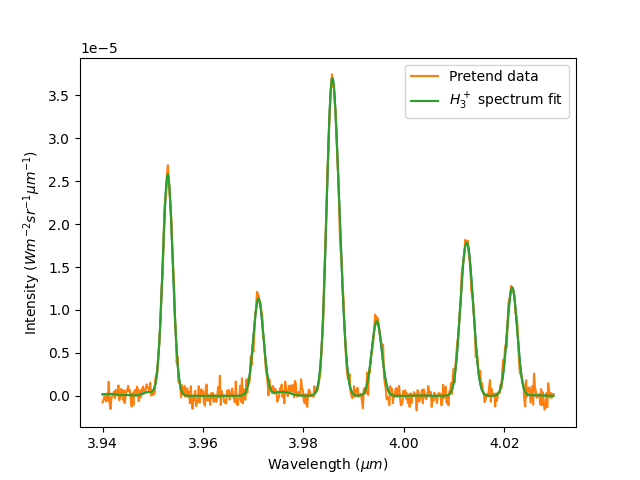
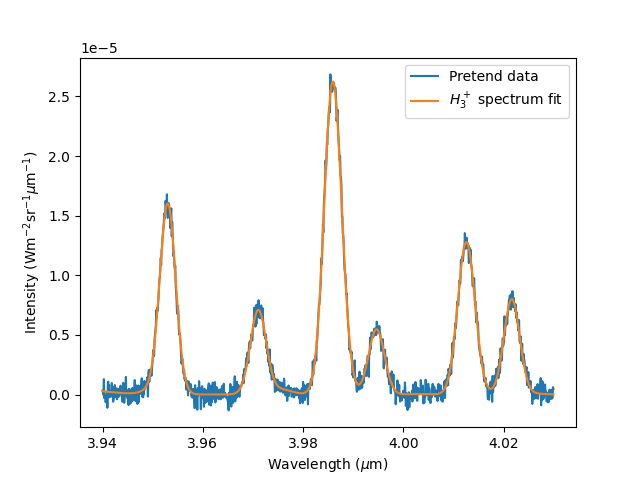
Added NASA IRTF example

diff --git a/h3ppy/__init__.py b/h3ppy/__init__.py
@@ -6,6 +6,8 @@ class h3p :
 
     def __init__(self, line_list_file = '', **kwargs):
 
+        self.dtype = 'double'
+
         # Provide the opportunity to use another line list
         if (line_list_file == '') :
             self.line_list_file = os.path.join(os.path.dirname(__file__), 'data/h3p_line_list_neale_1996_subset.txt')
@@ -30,7 +32,7 @@ class h3p :
         
         # When to stop iterating the fitting loop. This is defined as the ratio between
         # the first parameter delta over the current. 
-        self.convergence_limit = 1e-5
+        self.convergence_limit = 1e-2
               
         # The default set of variables
         self.vars = {}
@@ -40,7 +42,7 @@ class h3p :
         self.vars['offset-0']      = 0.0
         self.vars['background-0']  = 0.0
         self.wavelength = self.wavegen(3.94, 4.01, 300)
-        self.data = np.array([0])
+        self.data = np.array([0], dtype = self.dtype)
 
         # The number of terms used for these parameters
         self.nsigma        = 1
@@ -79,10 +81,10 @@ class h3p :
 
         """
         # Don't recalculate if we've just done it
-        if (self._last_temperature == self.vars['temperature']) : 
-            return self.line_intensity                
+#        if (self._last_temperature == self.vars['temperature']) : 
+#            return self.line_intensity                
 
-        Q = self.Q()
+        Q           = self.Q()
 
         self.line_intensity = np.zeros(len(self.line_data['gw']))
         for i in range(len(self.line_data['gw'])) : 
@@ -98,7 +100,7 @@ class h3p :
                 self.line_intensity[i] = intensity
     
         self._last_temperature = self.vars['temperature']
-    
+        
         return self.line_intensity                
         
     def model(self, **kwargs) :
@@ -120,12 +122,11 @@ class h3p :
         
         self.parse_kwargs(kwargs)
 
-        spectrum   = np.zeros(len(self.wavelength))
+        spectrum   = np.zeros(len(self.wavelength), dtype = self.dtype)
 
         self.sigma      = self.poly_fn('sigma', self.nsigma)
         self.offset     = self.poly_fn('offset', self.noffset)
         self.background = self.poly_fn('background', self.nbackground)
-
 
         relevant_range = np.max(self.sigma) * self.sigma_limit
         
@@ -133,7 +134,7 @@ class h3p :
         for k in np.arange(len(self.line_data['wl'])) : 
 
             # Only calculate over the wavelength range appropriate for this line
-            relevant_waves = np.argwhere(np.abs(self.wavelength - 1e4/self.line_data['wl'][k]) < relevant_range)
+            relevant_waves = np.argwhere(np.abs(self.wavelength - (1e4/self.line_data['wl'][k] + np.mean(self.offset))) < relevant_range)
 
             for i in relevant_waves : 
                 
@@ -144,7 +145,7 @@ class h3p :
                 # We can process the spectrum by adding additional terms, 
                 # mainly for the derivaties of the spectral function.    
                 if (process_fn == '') : spectrum[i] += self.intensity_ik
-                else : spectrum[i] = getattr(self, process_fn)(i, k)
+                else : spectrum[i] += getattr(self, process_fn)(i, k)
     
         return spectrum
                 
@@ -164,7 +165,7 @@ class h3p :
             logging.error('Partition constants out of range of temperature ' + str(self.vars['temperature']) + ' K')        
             return np.array([0])        
         
-        return np.array(constants)
+        return np.array(constants, dtype = self.dtype)
 
     # Calculate the H3+ partition function
     def Q(self, **kwargs) :
@@ -178,7 +179,7 @@ class h3p :
     
         Q = 0.0
         for i, const in np.ndenumerate(pconst) : 
-            Q += const * np.power(self.vars['temperature'], np.double(i))
+            Q += const * np.power(self.vars['temperature'], np.double(i[0]))
             
         return Q;
 
@@ -218,8 +219,8 @@ class h3p :
     # Alter the spectral function for dIdo()
     def dIdo_process(self, i, k) : 
 
-        numerator_deriv = 2.0 * ( self.wavelength[i] - (1e4/self.line_data['wl'][k] + self.offset[i] ))
-        dIdc            = -np.power(self.wavelength[i], self.offset_index)
+        numerator_deriv = 2.0 * ( self.wavelength[i] - (1e4/self.line_data['wl'][k] + self.offset[i]) )
+        dIdc            = 1.0 * np.power(self.wavelength[i], self.offset_index)
 
         return self.intensity_ik * numerator_deriv / (2.0 * np.power(self.sigma[i], 2)) * dIdc 
         
@@ -290,17 +291,18 @@ class h3p :
 
             elif (key == 'noffset') : 
                 self.modify_vars(value, self.noffset, 'offset')
-                self.nsigma = value                
+                self.noffset = value                
 
             elif (key == 'nbackground') : 
                 self.modify_vars(value, self.nbackground, 'background')
-                self.nsigma = value                
+                self.nbackground = value                
 
         # Now set the spectrum parameters
         ok_keys = self.vars.keys()
-       # ok_keys.append('nsigma', 'noffset', 'nbackground')
+        # ok_keys.append('nsigma', 'noffset', 'nbackground')
+       
         for key, value in kwargs.items() :
-        
+
             # Allow no dash suffix for zero order polynomials 
             if (key == 'sigma') : key = 'sigma-0'
             if (key == 'offset') : key = 'offset-0'
@@ -316,22 +318,18 @@ class h3p :
 
             if key in ok_keys : 
                 self.vars[key] = float(value)
-            elif (key == 'wavelength') : self.wavelength = np.array(value)
-            elif (key == 'data') : self.data = np.array(value)
+            elif (key == 'wavelength') : self.wavelength = np.array(value, dtype = self.dtype)
+            elif (key == 'data') : self.data = np.array(value, dtype = self.dtype)
             elif (key in ['nsigma', 'noffset', 'nbackground']) : 
                 pass
             else : logging.error('Unknown set of key/values: ' + key + ' = ' + str(value))
 
-    def fit(self, params_to_fit = '', **kwargs) : 
-
-        # Sanity check the inputs
-        if (self.check_inputs() == False) : return False
+    def fit(self, params_to_fit = '', verbose = False, niter = 8, **kwargs) : 
 
         self.parse_kwargs(kwargs)
 
-        if (len(self.data) == 1) : 
-            logging.error('Nothing to fit - data is required, e.g. h3p.fit(data = uranus)')
-            return False
+        # Sanity check the inputs
+        if (self.check_inputs() == False) : return False
 
         function_map = {'temperature' : 'dIdT()', 'density' : 'dIdN()', 'offset-n' : 'dIdo(n)', 'sigma-n' : 'dIds(n)', 'background-n' : 'dIdb(n)'}
 
@@ -340,23 +338,15 @@ class h3p :
             self.params_to_fit = self.vars.keys()
         else : self.params_to_fit = params_to_fit
 
-        #params_to_fit = #['temperature', 'density', 'sigma-0', 'offset-0', 'background-0']
-
-
-        self.noffset      = 1
-#        self.offset_consts = np.array([0, 0])
-        self.nsigma      = 1
-        self.nbackground = 1
-
-        niter = 8
-
         self.convergence_arrays = []
         
-        
+        if (verbose) : logging.info('Number of fitting iterations is set to {niter}'.format(niter = niter))
         
         iternbr = 0
         for i in range(niter) : 
 
+            msg = ''
+            
             # The difference between the observation and the data
             diff = self.data - self.model()
 
@@ -366,34 +356,55 @@ class h3p :
                     p1, p2 = param.split('-')
                     fn = function_map[param.replace(p2, 'n')].replace('n', p2 )
                 else : fn = function_map[param]
-                elements[param] = eval('self.' + fn)     
+                elements[param] = np.array ( eval('self.' + fn), dtype = self.dtype)
         
             # Generate the Z and ABC matricies
-            Z   = np.zeros([len(elements), len(elements)])
-            ABC = np.zeros([len(elements), len(elements), len(elements)])
+            Z   = np.zeros([len(elements), len(elements)], dtype = self.dtype)
+            ABC = np.zeros([len(elements), len(elements), len(elements)], self.dtype)
             for x, xparam in enumerate(self.params_to_fit) : 
                 for y, yparam in enumerate(self.params_to_fit) : 
-                    Z[y][x] = np.sum(elements[xparam] * elements[yparam])
+                    Z[y][x] = np.sum(elements[xparam] * elements[yparam], dtype = self.dtype)
                     for p, pparam in enumerate(self.params_to_fit) : 
                         if (y == p) : diffvar = diff
                         else : diffvar =  elements[yparam]
-                        ABC[p][y][x] = np.sum(elements[xparam] * diffvar)
+                        ABC[p][y][x] = np.sum(elements[xparam] * diffvar, dtype = self.dtype)
 
-            diffs = []
+            diffs = {}
+            prev_vars = {}
             for p, param in enumerate(self.params_to_fit) : 
-                diff = np.linalg.det(ABC[p]) / np.linalg.det(Z) 
-#                diff = determinant_fast(ABC[p]) / determinant_fast(Z) 
-                self.vars[param] += diff
+                #print('Z', Z)
+                #print('ABC', ABC[p])
+#                print(self.dIdT())
+                detABC = np.linalg.det(ABC[p])
+                detZ   = np.linalg.det(Z) 
+                #print('detABC', detABC)
+                #print('detZ', detZ)
+                if (detABC == 0 or detZ == 0) : 
+                    msg = '|ABC| or |Z| are zero.'    
+                    diff = -1           
+                else : 
 
+                    diff =  detABC / detZ
 
+                    prev_vars[param] = self.vars[param]
+                    self.vars[param] += diff # * 0.5
 
-                diffs.append(diff)
+#                    if (diff < 0.1 * prev_vars[param]) : self.vars[param] = 0.1 * prev_vars[param]
+#                    elif (diff > 10 * prev_vars[param]) : self.vars[param] = 10 * prev_vars[param]
+
+                    # Dampen the density change
+#                    if (param in ['density', 'temperature', 'sigma-0']) : 
+#                        if (self.vars[param] < 0) : 
+#                            self.vars[param] = 0.5 * prev_vars[param]
+
+                    #print(self.vars['offset-0'], diff)
+
+                    diffs[param] = diff
                 
                 # Sanity check the retrieved variables 
-                msg = ''
                 if (np.isfinite(diff) == False) : '|D|/|Z| returned a NaN'
                 if (self.vars['temperature'] < 0) : msg = 'Temperature is less than zero'
-                if (self.vars['temperature'] > 5000) : msg = 'Temperature is larger than one might expect'
+                if (self.vars['temperature'] > 5000) : msg = 'Temperature is larger this upper boundary of h3ppy (5000 K)'
                 if (self.vars['density'] < 0) : msg = 'Density is less than zero'
                 self.sigma = self.poly_fn('sigma', self.nsigma)
                 if (np.mean(self.sigma) < 0) : msg = 'Line width is negative'
@@ -401,14 +412,27 @@ class h3p :
                     self._fit_sucess = False
                     #tip = "\n        This generally happens when the line width (sigma) and/or the wavelength scale is off."
                     tip = ''
-                    logging.error('🚨 Fit cannot converge: ' + msg + tip)
-                    return np.full(len(self.wavelength), -1)
+                    logging.error('🚨  Fit failed to converge - solution is numerially unstable ') # + msg + tip)
+                    if (verbose) : logging.error('In this instance: {msg}'.format(msg = msg))
+                    return np.full(len(self.wavelength), 0)
+                    
+            # Output the intermediate values if ya want
+            if (verbose) : self.print_vars()    
+                
             self._fit_sucess = True
             self.convergence_arrays.append(diffs)
 
             # This parameterises the level of convergence            
-            converger = np.abs(np.min(diff / self.convergence_arrays[0]))
+            fracs = [ np.abs(diffs[p] / self.vars[p]) for p in self.params_to_fit ]
+            converger = np.mean( fracs )  # self.vars[params_to_fit[0]] / 
+
             if (converger < self.convergence_limit) : break
+            elif (converger > 100) : break
+
+            if (verbose) : logging.info('The converger is {con:0.2E} after {i} iterations'.format(con = converger, i = i))
+
+        if (verbose) : logging.info('Fitting concluded after {i} iterations.'.format(i = i + 1))
+        if (verbose) : logging.info('The final convergence condition is {lim:0.2E}.'.format(lim = converger))
 
         # Calculate the errors on the retrieved parameters
         diff = self.data - self.model()
@@ -486,7 +510,7 @@ class h3p :
         Return the results of the spectral fit. 
         
         """
-        if (self._fit_sucess == False) : return False
+        if (self._fit_sucess == False) : return False, False
 
         nl = "\n"
         txt  = ' Spectrum parameters:' + nl
@@ -503,6 +527,21 @@ class h3p :
         if (verbose == True) : logging.info(txt)
         return self.vars, self.errors
 
+    def print_vars(self) : 
+        """
+        Print the current set of spectrum variables held in h3ppy.
+        """
+        nl = "\n"
+        txt = 'Current paramter set:' + nl
+        txt += '        Temperature = {ds:0.1f}'.format(ds = self.vars['temperature']) + nl
+        txt += '        Density     = {ds:0.2E}'.format(ds = self.vars['density']) + nl
+        vkeys = self.vars.keys()
+        for k in vkeys : #, val in enumerate(sorted(self.vars)) :   
+            if (k in ['temperature', 'density']) : continue
+            txt += '        {key} = {ds:0.2E}'.format(key = k, ds = self.vars[k]) + nl
+        logging.info(txt)
+        
+        return self.vars
 
     def ylabel(self, label = 'Intensity', prefix = '') :    
         """
@@ -517,6 +556,10 @@ class h3p :
         return 'Wavelength (${\mu}$m)'
 
     def guess_density(self, verbose = True, **kwargs) : 
+    
+        self.parse_kwargs(kwargs)
+    
+        if (self.check_inputs() == False) : return False
     
         model = self.model()
         if (np.max(model) == 0) : 
@@ -537,9 +580,9 @@ class h3p :
 
     def guess_offset(self, verbose = True, **kwargs) :
 
-        if (self.check_inputs() == False) : return False
-
         self.parse_kwargs(kwargs)
+
+        if (self.check_inputs() == False) : return False
 
         # Generate a H3+ model and check that it is nonzero.
         model = self.model(offset = 0)
@@ -570,15 +613,17 @@ class h3p :
         return self.model()
 
     def check_inputs(self) : 
-            # Santiy check the inputs
-        if (len(self.data) != len(self.wavelength)) : 
-            logging.error('ERROR - The wavelength array has a different length to the data array!')
-            return False
-
+ 
         # We need to have some data to guess on
         if (len(self.data) == 1) : 
-            logging.error('Nothing to fit - data is required, e.g. h3p.fit(data = uranus)')
+            logging.error('ERROR - Data array is required at this stage! E.g. h3p.fit(data = uranus)')
             return False
+    
+        # Santiy check the inputs
+        if (len(self.data) != len(self.wavelength)) : 
+            logging.error('ERROR - The wavelength array has a different length to the data array! ({nd} and {nw})').format(nd = len(self.data), nw = len(self.wavelength))
+            return False
+
     
         return True
 

diff --git a/examples/cgs4_uranus.py b/examples/cgs4_uranus.py
@@ -31,10 +31,10 @@ guess = h3p.guess_offset()
 guess = h3p.guess_density()
 
 # Let h3ppy do the fitting - this will do a full five parameter fit
-fit           = h3p.fit(verbose = False)    
+fit = h3p.fit(verbose = False)    
 
 # Get the results
-vars, errs    = h3p.get_results()
+vars, errs = h3p.get_results()
 
 # Plot the results! 
 fig, ax = plt.subplots()
@@ -46,9 +46,5 @@ ax.legend(frameon = False)
 # Use the h3ppy helper functions for the labels
 ax.set_xlabel(h3p.xlabel())
 ax.set_ylabel(h3p.ylabel(prefix = '$\mu$'))
-
-plt.savefig('cgs4_uranus_fit.png')
+plt.savefig('../img/cgs4_uranus_fit.png')
 plt.close()
-
-
-
